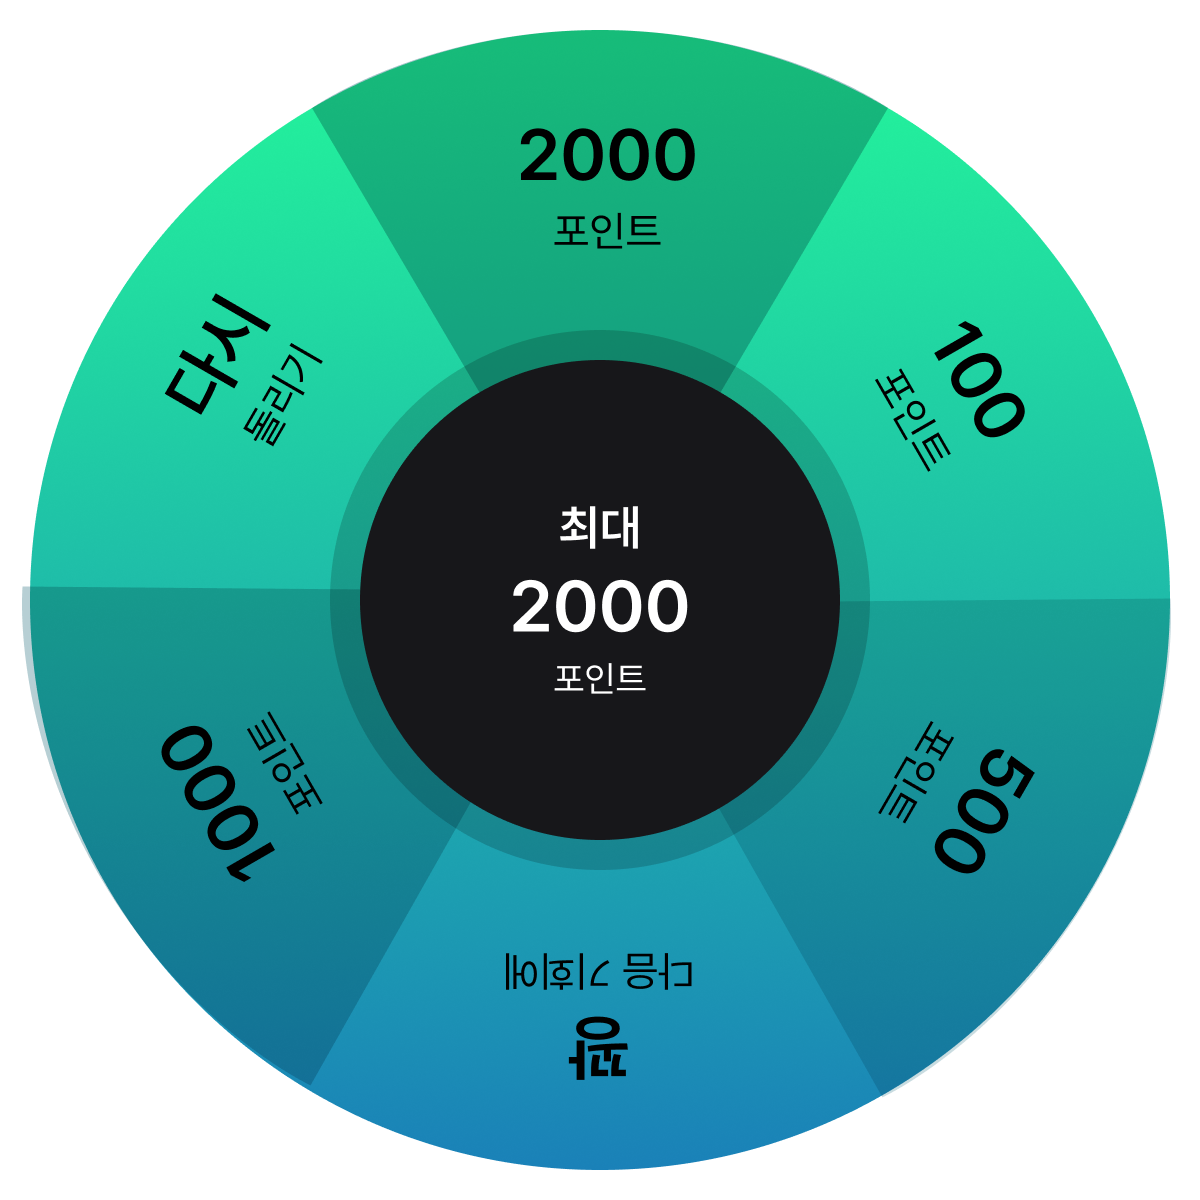
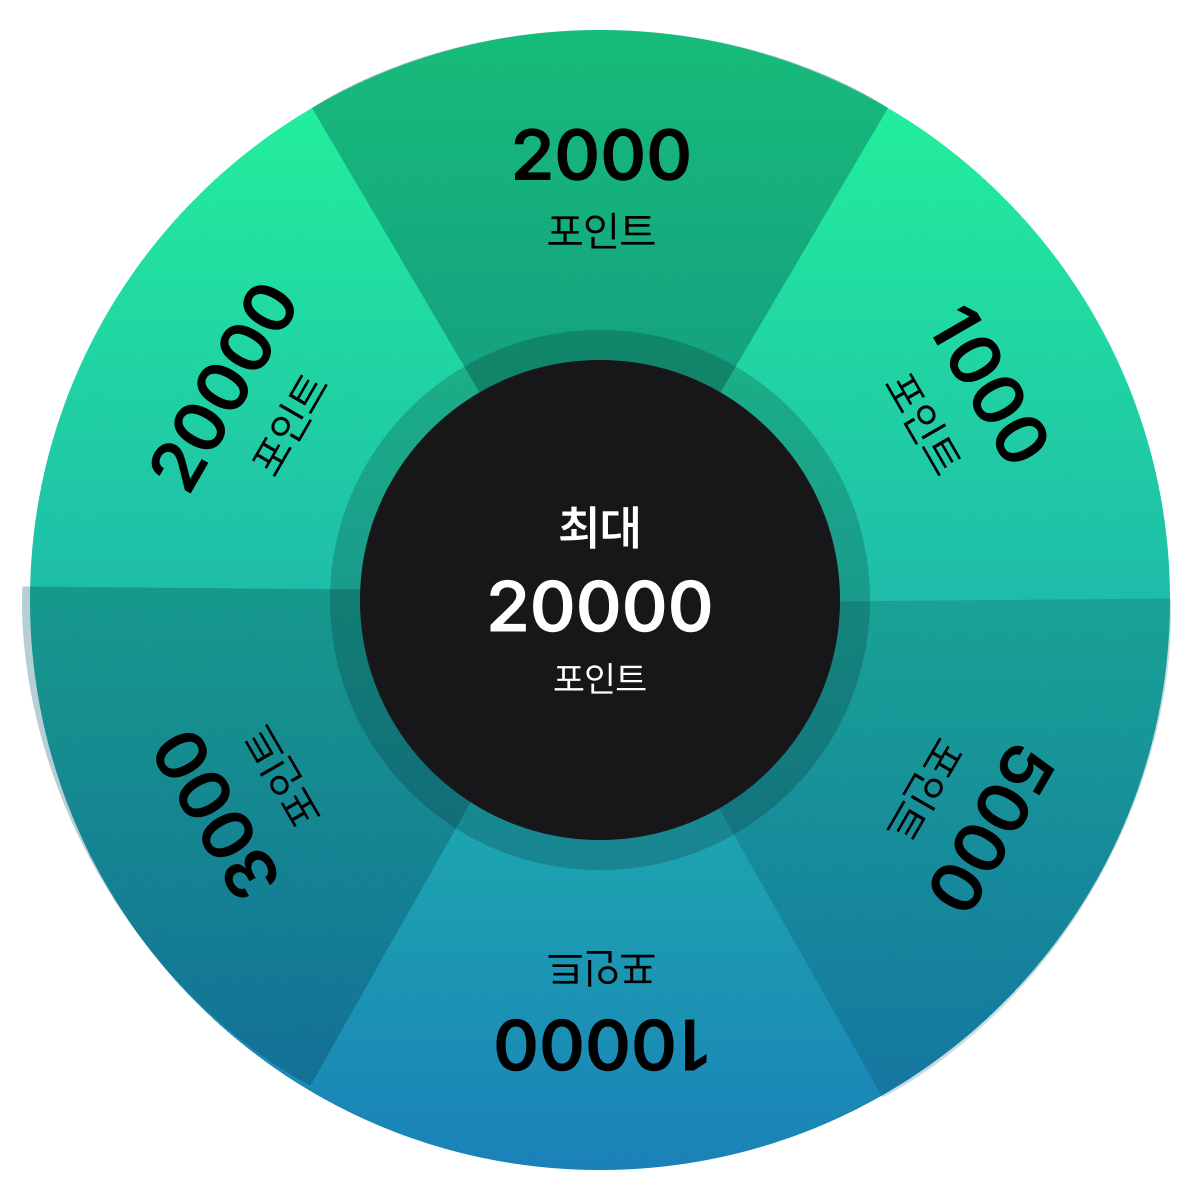
Change Roulette Upgrade

diff --git a/src/Pages/Minigame/Roulette/index.tsx b/src/Pages/Minigame/Roulette/index.tsx
@@ -47,9 +47,9 @@ const Roulette = () => {
       setRolletResponse(response.data.result);
       setTimeout(async () => {
         setIsShow(true);
-        if (response.data.result != 5) {
+        // if (response.data.result != 5) {
           saveTodayDateToLocalStorage();
-        }
+        //}
         try {
           const token = localStorage.getItem('accessToken');
 
@@ -72,12 +72,12 @@ const Roulette = () => {
   };
 
   const RouletteMentArr = [
+    { SubMent: '축하합니다!', Ment: '20000포인트 당첨!' }, 
+    { SubMent: '축하합니다!', Ment: '10000포인트 당첨!' },
+    { SubMent: '축하합니다!', Ment: '5000포인트 당첨!' },
+    { SubMent: '축하합니다!', Ment: '3000포인트 당첨!' },
     { SubMent: '축하합니다!', Ment: '2000포인트 당첨!' },
     { SubMent: '축하합니다!', Ment: '1000포인트 당첨!' },
-    { SubMent: '축하합니다!', Ment: '500포인트 당첨!' },
-    { SubMent: '축하합니다!', Ment: '100포인트 당첨!' },
-    { SubMent: '500P는 보너스!', Ment: '한 번 더!' },
-    { SubMent: '아쉽네요', Ment: '꽝, 내일 만나요!' },
   ];
 
   const SeeTomorrow = () => {
